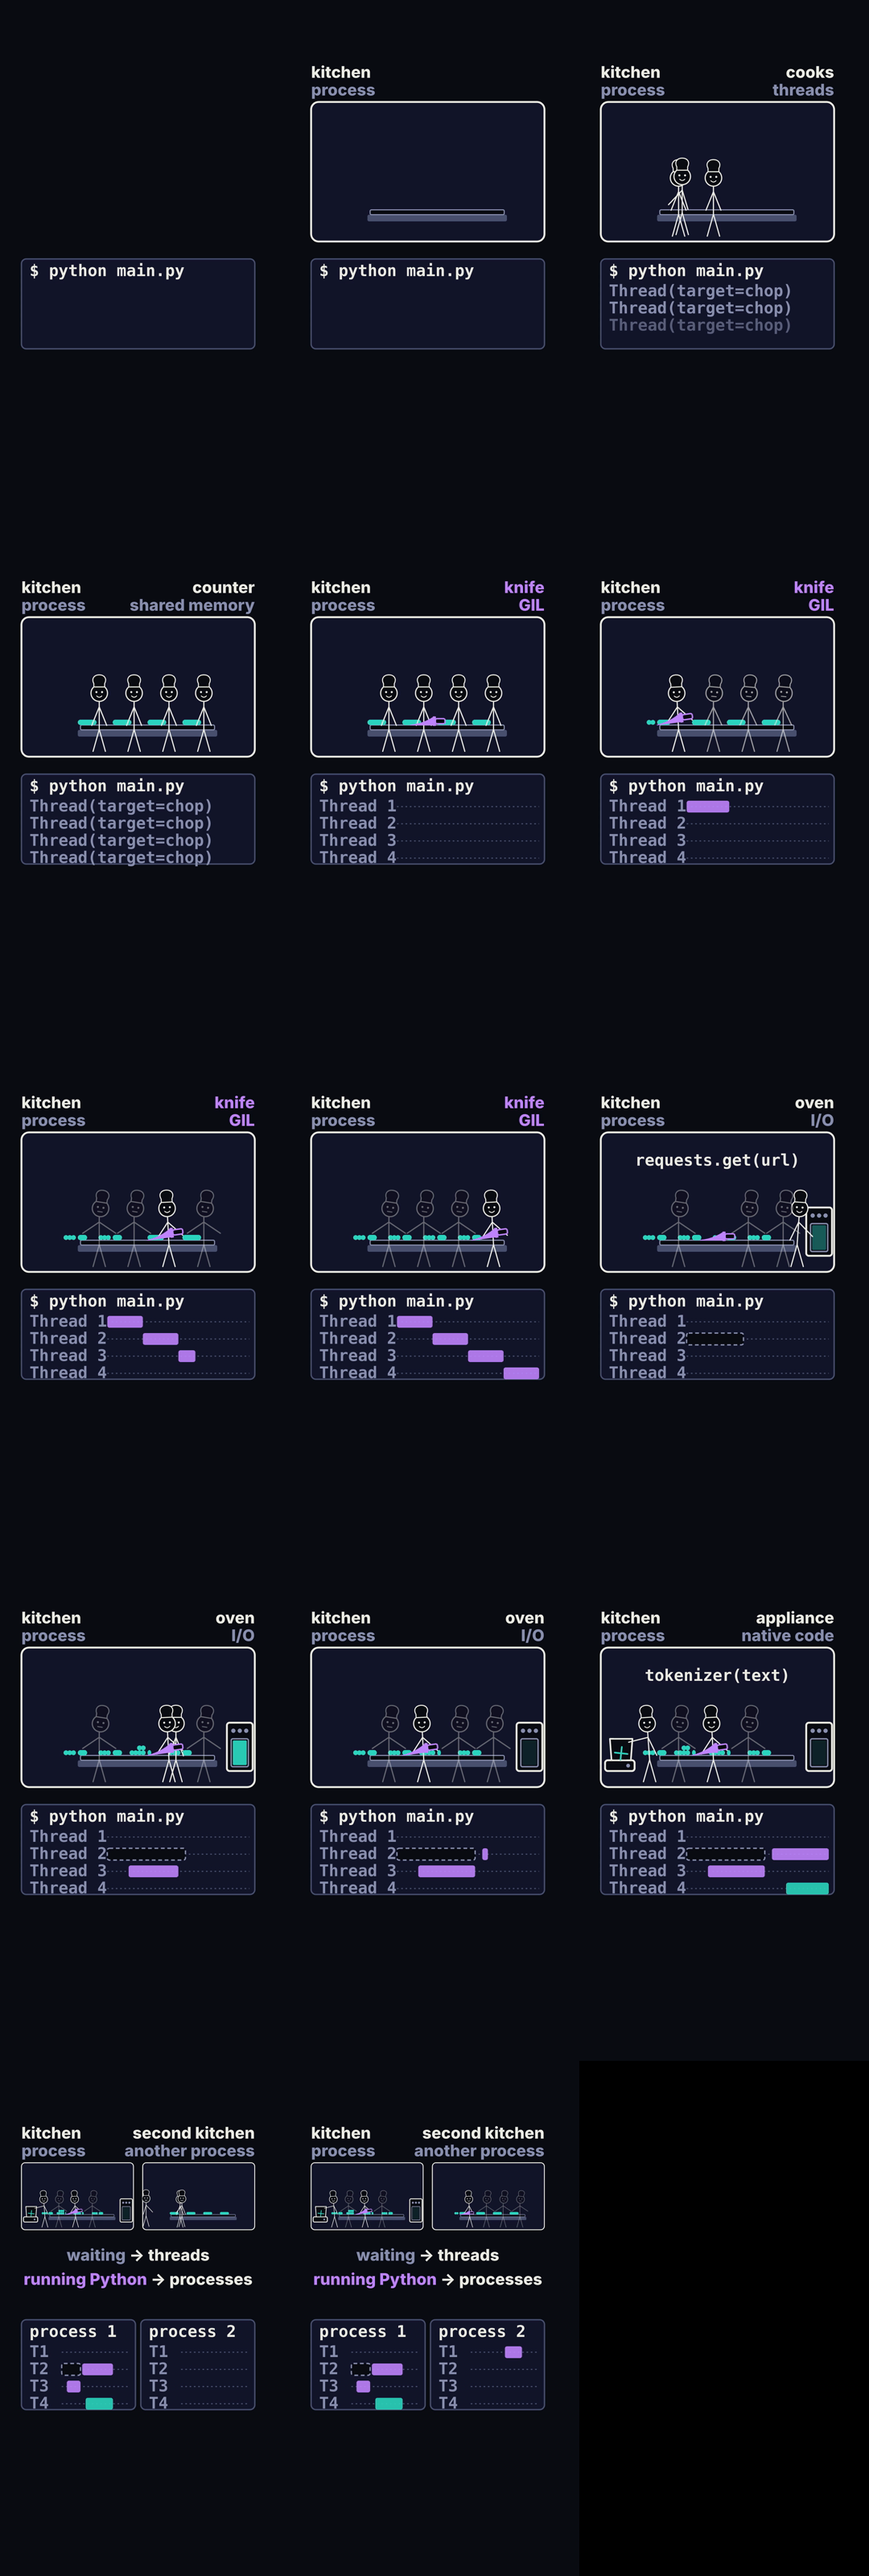
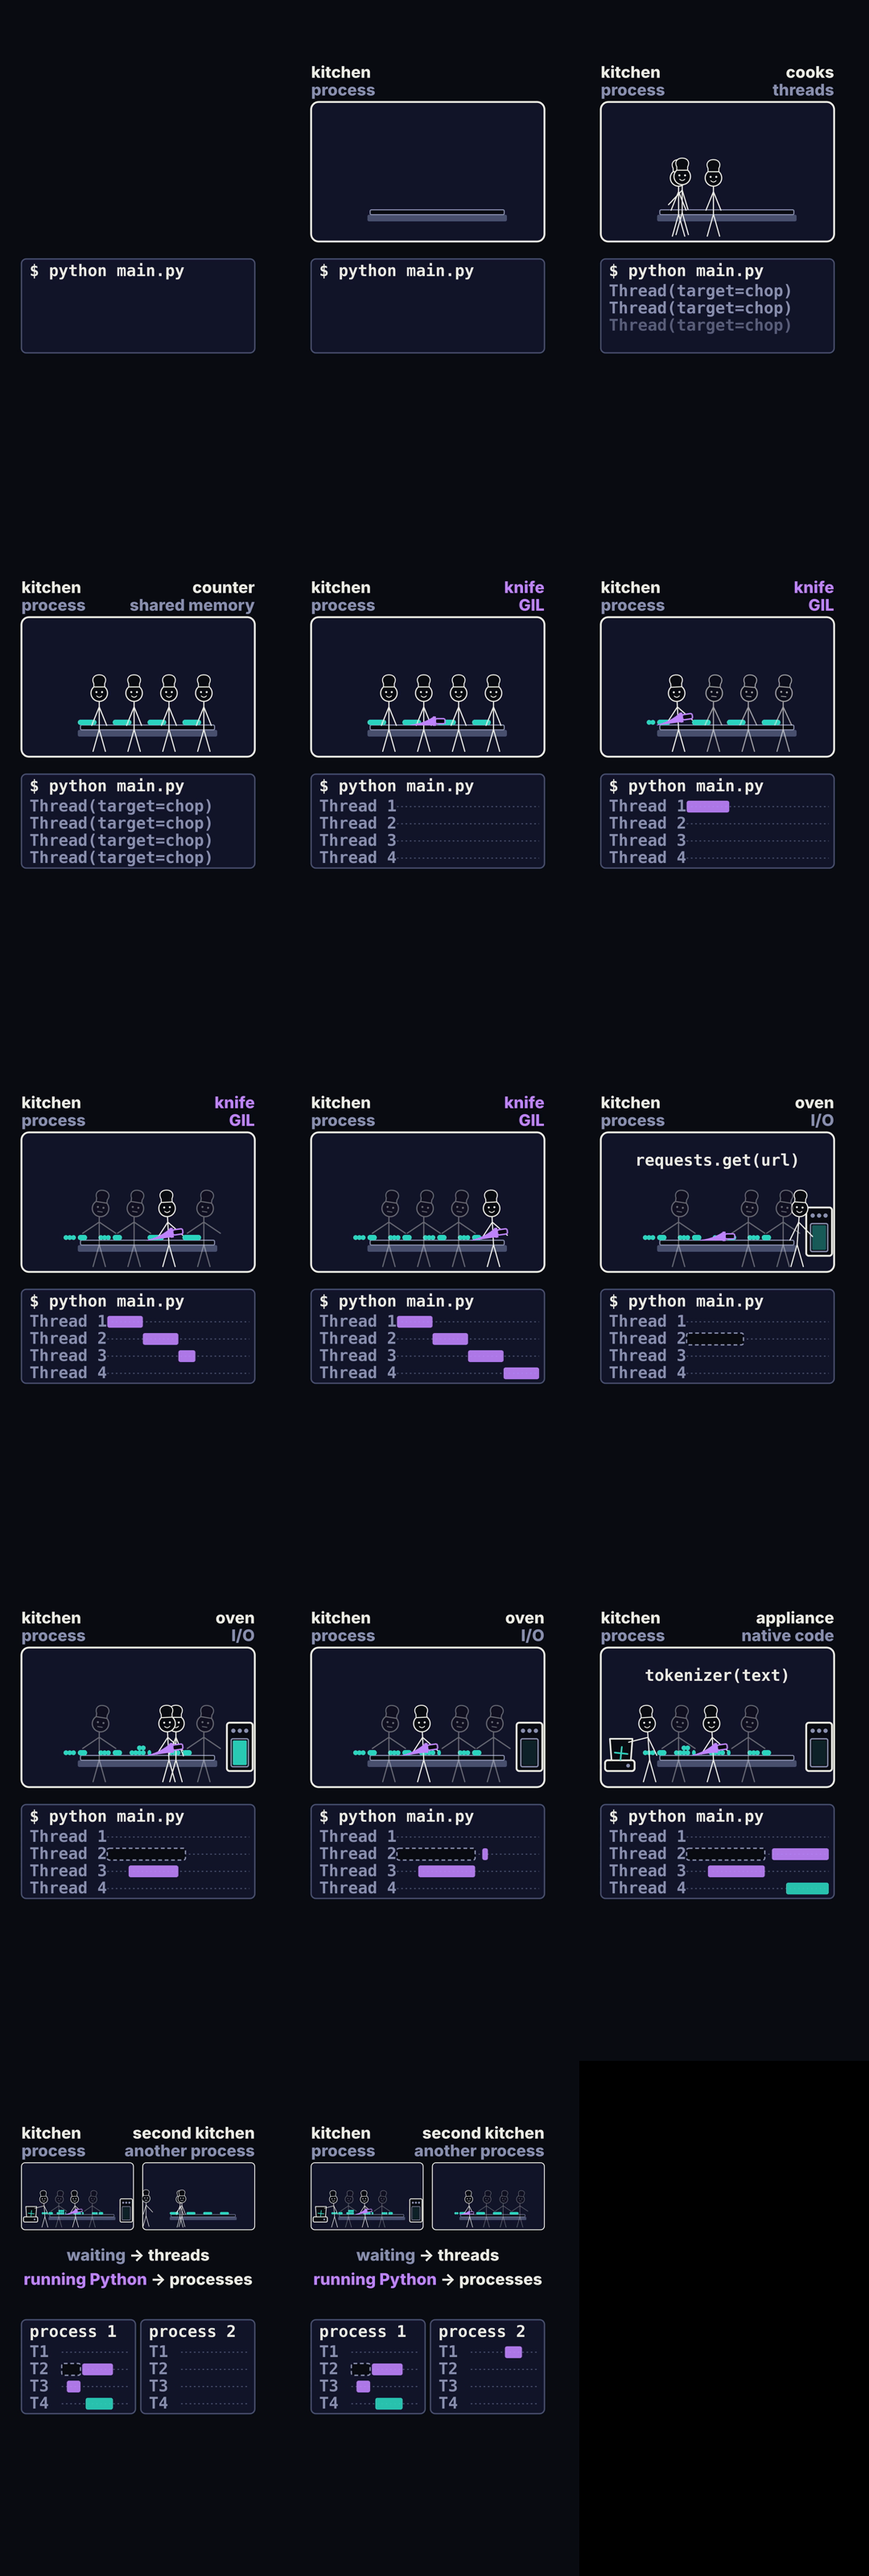
015 ep1: shrink the kitchen only for the second kitchen; taller panel
The close lines land inside the full-size kitchen above the cooks and
crossfade to the gap when the kitchen shrinks at 43.1 s, just before
"second kitchen". The panel box is 15 px taller so the Thread 4 row sits
inside it. (Chris, 10/29.)

diff --git a/videos/015-python-gil/_kit/kitchen.js b/videos/015-python-gil/_kit/kitchen.js
@@ -17,7 +17,8 @@
 //   labels    y 235–367   "kitchen / process" top-left (stays), one slot
 //                         top-right that shows the thing just named
 //   chip      y 450       one line of code inside the kitchen (requests.get(url) …)
-//   close     y 690/780   "waiting → threads", "running Python → processes"
+//   close     y 420/500   "waiting → threads", "running Python → processes" inside the
+//                         kitchen, sliding to y 690/780 as it shrinks
 //
 // The knife: a chef's knife with the tip resting on the cutting board; the
 // handle rocks in the holder's hand (S.chop), the carrot under the blade
@@ -57,12 +58,13 @@
   const KNIFE_L = 150;                                // tip → end of the grip, at scale 1
   const OVEN = { x: 846, y: 660, w: 96, h: 180 };
   const APPL = { x: 96, y: 760, w: 110, h: 80 };
-  const PANEL = { x: 80, y: 965, w: 870, h: 335, title: 975, row0: 1050, pitch: 64, barX: 400, barX1: 930, barH: 44 };
+  const PANEL = { x: 80, y: 965, w: 870, h: 350, title: 975, row0: 1050, pitch: 64, barX: 400, barX1: 930, barH: 44 };
   const HALF = 0.48;                                  // the kitchens' scale at the close (two fit side by side with a gap)
   const TWIN = { x: 532, y: 380 };                    // where the second kitchen's top-left lands at the close
   const PANEL2 = { x: 525, w: 425, barX: 675 };        // the right half panel; the left half keeps PANEL.x with SPLIT bars
   const SPLIT = { w: 425, barX: 230, barX1: 485 };
-  const CLOSE_Y = [690, 780];
+  const CLOSE_Y = [690, 780];                         // the close lines, in the gap once the kitchen is half size
+  const CLOSE_IN = [420, 500];                        // ... and inside the full-size kitchen, above the cooks, before that (Chris, 10/29: shrink only when the second kitchen comes in)
 
   // ---- the state ----
   const REST = {
@@ -316,7 +318,11 @@
       slot.a.textContent = S.slot.top; slot.b.textContent = S.slot.bottom;
       slot.set(S.slot.o, S.slot.hero);
       chip.textContent = S.chip.text; domOpac(chip, S.chip.o * S.K.o);
-      domOpac(closeA, S.close.a); domOpac(closeB, S.close.b);
+      // the close lines: inside the kitchen while it is full size, in the gap once it is half size; while it shrinks they
+      // fade out in place and fade back in at the gap (a slide would cross the shrinking box)
+      const half = clamp01(S.K.half), gap = half >= 0.5 ? 1 : 0, cf = seg(Math.abs(1 - 2 * half), 0.4, 1);
+      closeA.style.top = `${gap ? CLOSE_Y[0] : CLOSE_IN[0]}px`; closeB.style.top = `${gap ? CLOSE_Y[1] : CLOSE_IN[1]}px`;
+      domOpac(closeA, S.close.a * cf); domOpac(closeB, S.close.b * cf);
       // the panel
       const P = S.panel, split = clamp01(P.split || 0), lanes = clamp01(P.lanes);
       opac(gPanel, P.o);
@@ -338,7 +344,7 @@
     return { draw, svg, gKit: main.g, gTwin: twin.g, cooks: main.cooks, knife: main.knife, twin, labels: { labK, slot }, chip, title, closeA, closeB, bars, bars2, gPanel, gPanel2 };
   }
 
-  window.SC = { PAL, BOX, FEET, FIG, SPOT, OVEN, APPL, PANEL, PANEL2, SPLIT, TWIN, HALF, CLOSE_Y, BOARD, TIP,
+  window.SC = { PAL, BOX, FEET, FIG, SPOT, OVEN, APPL, PANEL, PANEL2, SPLIT, TWIN, HALF, CLOSE_Y, CLOSE_IN, BOARD, TIP,
                 REST, SEAM1, PROTO, SLOT, STAIR, OVEN_ROWS, APPL_ROWS, CLOSE_ROWS, CLOSE_ROWS2, TWIN_COOKS, KIT, cooksAt,
                 state, tween, merge, mount, lerp, clamp01, seg, io, pulse, chopAt,
                 SEAM: SEAM1 };

diff --git a/videos/015-python-gil/ep01-the-gil/06_close/index.html b/videos/015-python-gil/ep01-the-gil/06_close/index.html
@@ -5,9 +5,7 @@
     <meta name="viewport" content="width=1080, height=1920" />
     <!-- 06_close (35.880 s, 10.210 s): SEAM1[5] -> SEAM1[6]. "But when threads don't help, ask one thing. Is this thread
          waiting, or is it running Python? If it's waiting, then threads work. But if it's running Python, you need a
-         second kitchen or another process." The kitchen shrinks to half size (cook 2 keeps chopping), the bars pulse on
-         their words, the two close lines land. On "second kitchen" the panel splits into "process 1" / "process 2" and a
-         second kitchen draws in at right; its cooks walk in, a knife lands, cook 1 chops, and the two magenta bars grow
+         second kitchen or another process." Cook 2 keeps chopping, the bars pulse on their words, the two close lines land inside the kitchen above the cooks. Just before "second kitchen" the kitchen shrinks to half size, left, and the close lines slide down into the gap; the panel splits into "process 1" / "process 2" and a second kitchen draws in at right; its cooks walk in, a knife lands, cook 1 chops, and the two magenta bars grow
          side by side (Chris, 10/29: show the second kitchen running, with its own four threads). -->
     <script src="vendor/gsap.min.js"></script>
     <script src="iso/iso.js"></script>
@@ -28,7 +26,7 @@
   // Beat-local cues (master - 35.880), from words.json.
   const CUE = {
     threads: 0.50,   /* "threads" (don't help): the chop stops, the chip and slot fade */
-    help:    1.16,   /* "help": the kitchen is at half size */
+    help:    1.16,   /* "help" */
     waiting: 2.94,   /* "waiting": the dashed bar pulses */
     running: 3.80,   /* "running" (Python?): the magenta bars pulse */
     work:    5.76,   /* "threads" (work): "waiting -> threads" lands */
@@ -38,7 +36,8 @@
   };
   const HOLD = 9.91;                 // still from here (VO ends 9.34)
   const SHRINK = 0.6, SWAP_OUT = 0.15, SWAP_IN = 0.2;
-  const T = { split: 7.86, draw: 7.86, walk: 8.16, knife: 8.76, chop: 8.80 };   // the second kitchen comes alive on "second kitchen"
+  const T = { shrink: 7.26, split: 7.86, draw: 7.86, walk: 8.16, knife: 8.76, chop: 8.80 };   // the second kitchen comes alive on "second kitchen"
+  // the kitchen shrinks only to make room for it (7.26 -> 7.86, landing on "second"); the close lines sit inside the kitchen until then
   const WALK = 0.5, STAGGER = 0.12;
 
   const root = document.getElementById("root");
@@ -64,7 +63,7 @@
     const inB = seg(t, CUE.process - SWAP_IN, CUE.process);
     const slot = inB > 0 ? SC.merge(SC.SLOT.twin, { o: inB }) : SC.merge(SC.SLOT.appl, { o: outA });
     const S = SC.state(A, {
-      K: { half: io(seg(t, CUE.help - SHRINK, CUE.help)) },
+      K: { half: io(seg(t, T.shrink, T.shrink + SHRINK)) },
       chip: { o: 1 - seg(t, CUE.threads, CUE.threads + 0.2) },
       slot,
       panel: { pulse: { io: pulse(t, CUE.waiting, 0.6), py: pulse(t, CUE.running, 0.6) }, split, rows: leftRows(split, grow) },

diff --git a/videos/015-python-gil/ep01-the-gil/storyboard.md b/videos/015-python-gil/ep01-the-gil/storyboard.md
@@ -67,7 +67,7 @@ Traded away: the v3 rule "the thing the title names is on screen at frame
 | 3 | `03_loop` | 14.800 | 7.030 | This is why threading a CPU loop makes it no faster. Four threads with one knife, you have one core's worth of work still. | "threading" 15.46: the knife hops 1→2→3→4, ~1.3 s each, only the holder chops; each hop ends that thread's bar and starts the next: a staircase, never two bars at once. "one core's worth" 20.26–20.84: a bracket over the whole lane, label `1 core`, pulses once. |
 | 4 | `04_oven` | 21.830 | 10.470 | But a cook puts the knife down to wait on the oven. That could be an I/O, a request, a file read, a sleep. The GIL is released while the thread waits, so another thread can run. | "cook" 22.26: the bars clear; "down" 23.06: cook 2 sets the knife on the board; "oven" 24.08: the oven appears at right, cook 2 walks to it, slot "oven / I/O"; Thread 2's bar is dashed from here. "request" 25.88 chip `requests.get(url)`, "file read" 26.42 `open(f).read()`, "sleep" 27.20 `time.sleep(1)`. "released" 28.46: cook 3 takes the knife and chops; "another thread can run" 30.08: Thread 3's magenta bar grows under the dashed Thread 2 bar: two bars at once for the first time. Then, in the silence after "run" (31.10): the oven flashes, Thread 2's dashed bar stops, cook 2 walks back to the counter, the knife hops 3 → 2 (cook 3 folds, Thread 3's bar stops), and Thread 2's row continues as a magenta bar. Still from 31.93. |
 | 5 | `05_appliance` | 32.300 | 3.580 | Same for an appliance. Think of NumPy, image decoding, a tokenizer. | Cook 2 chops the whole beat, Thread 2's magenta bar grows on. "appliance" 32.96: the food processor appears at far left, cook 4 walks to it and runs it (no knife), slot "appliance / native code"; Thread 4 gets a teal bar beside Thread 2's magenta one. Chips: "NumPy" 33.82 `np.dot(a, b)`, "image decoding" 34.25 `Image.open(f)`, "tokenizer" 35.14 `tokenizer(text)`. |
-| 6 | `06_close` | 35.880 | 10.210 | But when threads don't help, ask one thing. Is this thread waiting, or is it running Python? If it's waiting, then threads work. But if it's running Python, you need a second kitchen or another process. | "threads don't help" 36.38: the kitchen shrinks to half size, left (cook 2 keeps chopping); the chip fades. "waiting" 38.82: the dashed bar pulses; "running Python" 39.68: the magenta bars pulse. "threads work" 41.64: "waiting → threads" lands; "running Python" 42.80: "running Python → processes" lands. "second kitchen" 43.74: the panel splits into `process 1` / `process 2` and a second kitchen draws in at right; its four cooks walk in 44.04–44.9, a knife lands 44.64, cook 1 chops from 44.68 and process 2's Thread 1 bar grows in step with process 1's Thread 2 bar; "another process" 44.70: slot "second kitchen / another process". Still from 45.79. |
+| 6 | `06_close` | 35.880 | 10.210 | But when threads don't help, ask one thing. Is this thread waiting, or is it running Python? If it's waiting, then threads work. But if it's running Python, you need a second kitchen or another process. | "threads don't help" 36.38: the chip and slot fade (cook 2 keeps chopping; the kitchen stays full size). "waiting" 38.82: the dashed bar pulses; "running Python" 39.68: the magenta bars pulse. "threads work" 41.64: "waiting → threads" lands inside the kitchen above the cooks; "running Python" 42.80: "running Python → processes" lands under it. 43.14–43.74: the kitchen shrinks to half size, left, and the close lines reappear in the gap below it (crossfade). "second kitchen" 43.74: the panel splits into `process 1` / `process 2` and a second kitchen draws in at right; its four cooks walk in 44.04–44.9, a knife lands 44.64, cook 1 chops from 44.68 and process 2's Thread 1 bar grows in step with process 1's Thread 2 bar; "another process" 44.70: slot "second kitchen / another process". Still from 45.79. |
 
 ## Seam states (`SC.SEAM1[n]` in `../_kit/kitchen.js`; `00_layout/proto.png` tiles 1, 4, 6(≈), 8, 11, 12, 14; tiles 10 and 13 are the round trip and the second kitchen filling)
 

diff --git a/videos/015-python-gil/ep01-the-gil/BRIEF.md b/videos/015-python-gil/ep01-the-gil/BRIEF.md
@@ -263,12 +263,16 @@ another@8.62 process.@8.82
 Opens on SEAM1[5]: cook 2 chopping, and it keeps chopping through the
 close (`SC.chopAt(t, 0.2, HOLD, 2)`, still for the first 0.2 s so the cut
 encodes clean; `cooks[1].cut` 0.8 → 1 over 0 → HOLD). On "threads don't
-help" (0.50 → 1.16) the kitchen shrinks: `K.half` 0 → 1 over 0.6 s
-(`SC.io`), the chip fades out over 0.2 s from 0.50, the slot fades out.
+help" (0.50) the chip fades out over 0.2 s and the slot fades out; the
+kitchen stays full size (Chris, 10/29: shrink only when the second
+kitchen comes in).
 On "waiting" (2.94) `pulse.io` bumps (`SC.pulse(t, 2.94, 0.6)`); on
 "running Python" (3.80) `pulse.py` bumps. On "threads work" (5.76)
 `close.a` 0 → 1 over 0.2 s landing at 5.76; on "running Python," (7.08)
-`close.b` likewise. On "second kitchen" (7.86 → 8.26) `panel.split`
+`close.b` likewise; the kit draws both inside the kitchen above the cooks
+while it is full size. From 7.26 the kitchen shrinks: `K.half` 0 → 1 over
+0.6 s (`SC.io`), landing on "second"; the kit crossfades the close lines
+to the gap below it. On "second kitchen" (7.86 → 8.26) `panel.split`
 0 → 1 (`SC.io`): the wide panel narrows to `process 1`, its rows at half
 width, and `process 2` appears once the left has narrowed; at the same
 time the second kitchen draws in (`twin.o` 1, `twin.draw` 0 → 1 over
